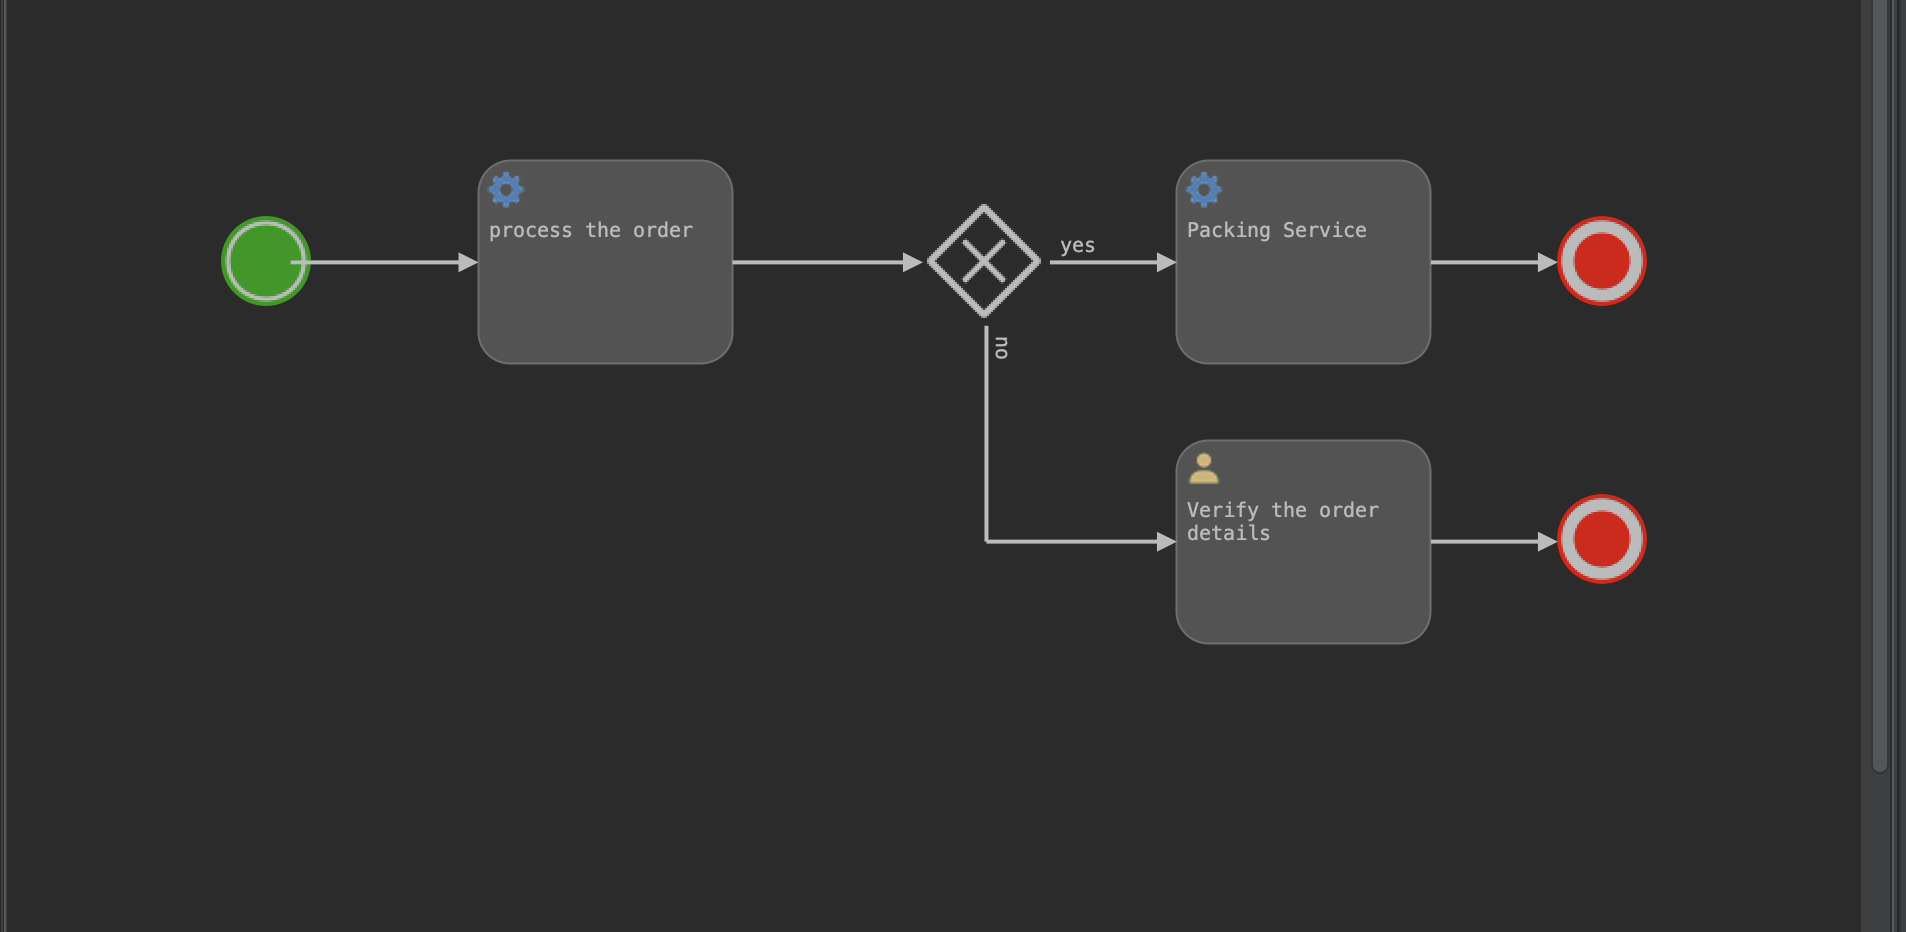
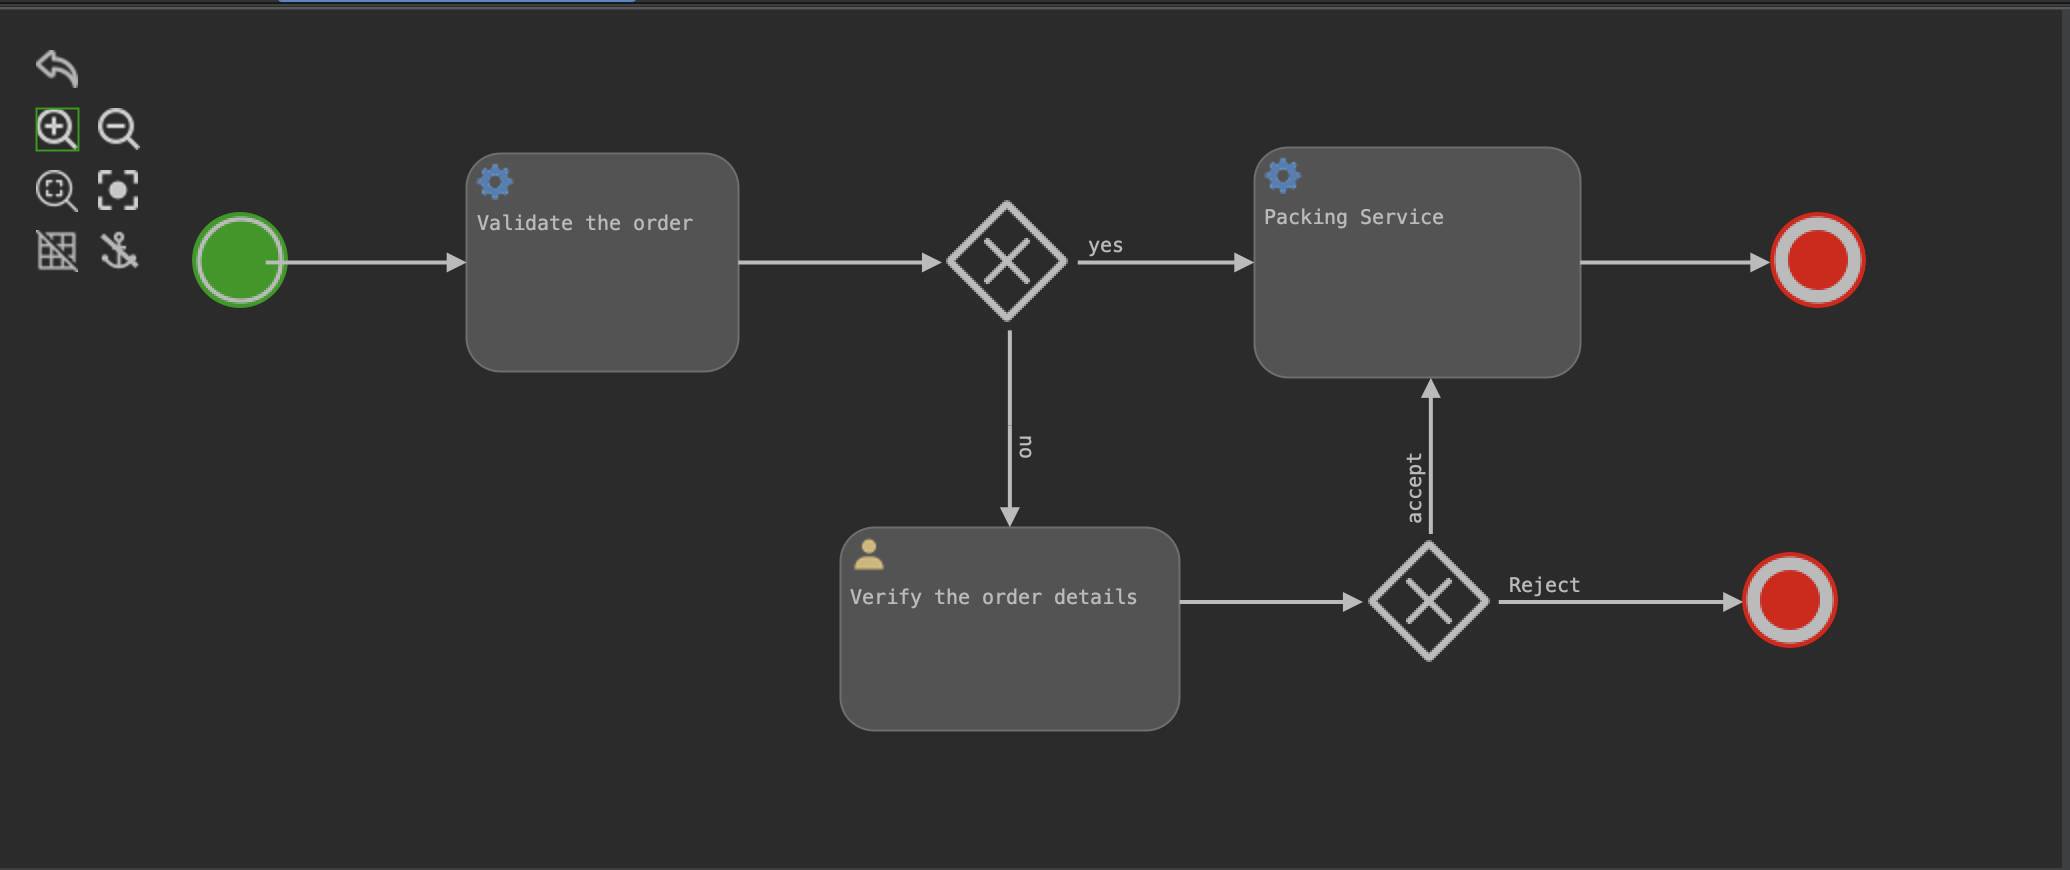
service tasks handling changed to async

diff --git a/src/main/java/com/challamani/activiti/SampleActivitiApplication.java b/src/main/java/com/challamani/activiti/SampleActivitiApplication.java
@@ -1,6 +1,9 @@
 package com.challamani.activiti;
 
 import com.challamani.activiti.model.Item;
+import com.fasterxml.jackson.core.JsonProcessingException;
+import com.fasterxml.jackson.core.type.TypeReference;
+import com.fasterxml.jackson.databind.ObjectMapper;
 import lombok.extern.slf4j.Slf4j;
 import org.activiti.api.process.runtime.connector.Connector;
 import org.springframework.boot.SpringApplication;
@@ -13,6 +16,7 @@ import org.springframework.security.crypto.bcrypt.BCryptPasswordEncoder;
 import org.springframework.security.crypto.password.PasswordEncoder;
 import org.springframework.security.provisioning.InMemoryUserDetailsManager;
 
+import java.util.ArrayList;
 import java.util.Arrays;
 import java.util.List;
 import java.util.Map;
@@ -24,16 +28,25 @@ public class SampleActivitiApplication {
     public static void main(String[] args) {
         SpringApplication.run(SampleActivitiApplication.class, args);
     }
+
+    private static final ObjectMapper OBJECT_MAPPER = new ObjectMapper();
     @Bean
-    public Connector processOrderConnector() {
+    public Connector processOrderConnector()  {
 
         return integrationContext -> {
 
-            Map<String, Object> inBoundVariables = integrationContext.getInBoundVariables();
-            String orderId = (String) inBoundVariables.get("orderId");
-            String orderStatus = (String) inBoundVariables.get("orderStatus");
+            String orderId = integrationContext.getInBoundVariable("orderId", String.class);
+            String orderStatus = integrationContext.getInBoundVariable("orderStatus", String.class);
 
-            List<Item> orderItems = (List<Item>) inBoundVariables.get("orderItems");
+            List<Item> orderItems = null;
+            try {
+                String orderItemsStr = OBJECT_MAPPER.writeValueAsString(integrationContext.getInBoundVariable("orderItems"));
+                log.info("order items {}",orderItemsStr);
+                orderItems = OBJECT_MAPPER.readValue(orderItemsStr, new TypeReference<ArrayList<Item>>() {
+                });
+            } catch (JsonProcessingException e) {
+                throw new RuntimeException(e);
+            }
 
             log.info("order {} status {}", orderId, orderStatus);
             boolean isItemQuantityExceeding = orderItems.stream().anyMatch(item -> item.getQuantity() > 5);
@@ -62,9 +75,11 @@ public class SampleActivitiApplication {
             String orderStatus = (String) inBoundVariables.get("orderStatus");
             log.info("< packageServiceConnector order {} status {}", orderId, orderStatus);
             if(orderStatus.equalsIgnoreCase("CONFIRMED")){
-                orderStatus = "PROCESSED";
+                log.info("packing is completed for the order {}", orderId);
+                orderStatus = "ReadyToShip";
             }else{
-                orderStatus = "PREPARING";
+                log.info("unexpected order {} has arrived to packing section", orderId);
+                orderStatus = "PENDING";
             }
             integrationContext.addOutBoundVariable("orderStatus", orderStatus);
             log.info("< packageServiceConnector order {} status {}", orderId, orderStatus);

diff --git a/src/main/java/com/challamani/activiti/service/UserTaskService.java b/src/main/java/com/challamani/activiti/service/UserTaskService.java
@@ -38,6 +38,7 @@ public class UserTaskService {
                 .orElseThrow(() -> new RuntimeException("failed at updateUserTask:" + taskId));
         userTask.setLocalVariables(variables);
 
+        log.info("user task inbound variables {}",variables);
         //Completing the userTask with incoming variables
         taskService.complete(taskId, variables);
         return userTask;

diff --git a/src/main/java/com/challamani/activiti/model/Order.java b/src/main/java/com/challamani/activiti/model/Order.java
@@ -2,11 +2,13 @@ package com.challamani.activiti.model;
 
 import lombok.Data;
 
+import java.io.Serializable;
 import java.util.List;
 
 @Data
-public class Order {
+public class Order implements Serializable {
 
+    private static final long serialVersionUID = 10000000L;
     private List<Item> orderItems;
     private String status;
     private String deliveryAddress;

diff --git a/src/main/java/com/challamani/activiti/model/Item.java b/src/main/java/com/challamani/activiti/model/Item.java
@@ -2,9 +2,11 @@ package com.challamani.activiti.model;
 
 import lombok.Data;
 
-@Data
-public class Item {
+import java.io.Serializable;
 
+@Data
+public class Item implements Serializable {
+    private static final long serialVersionUID = 10000000L;
     private Integer id;
     private String name;
     private Integer quantity;

diff --git a/src/main/java/com/challamani/activiti/model/OrderProcessRequest.java b/src/main/java/com/challamani/activiti/model/OrderProcessRequest.java
@@ -6,6 +6,7 @@ import lombok.Data;
 @Data
 public class OrderProcessRequest {
 
+    private static final long serialVersionUID = 10000000L;
     private String businessKey;
     private Order order;
 }
